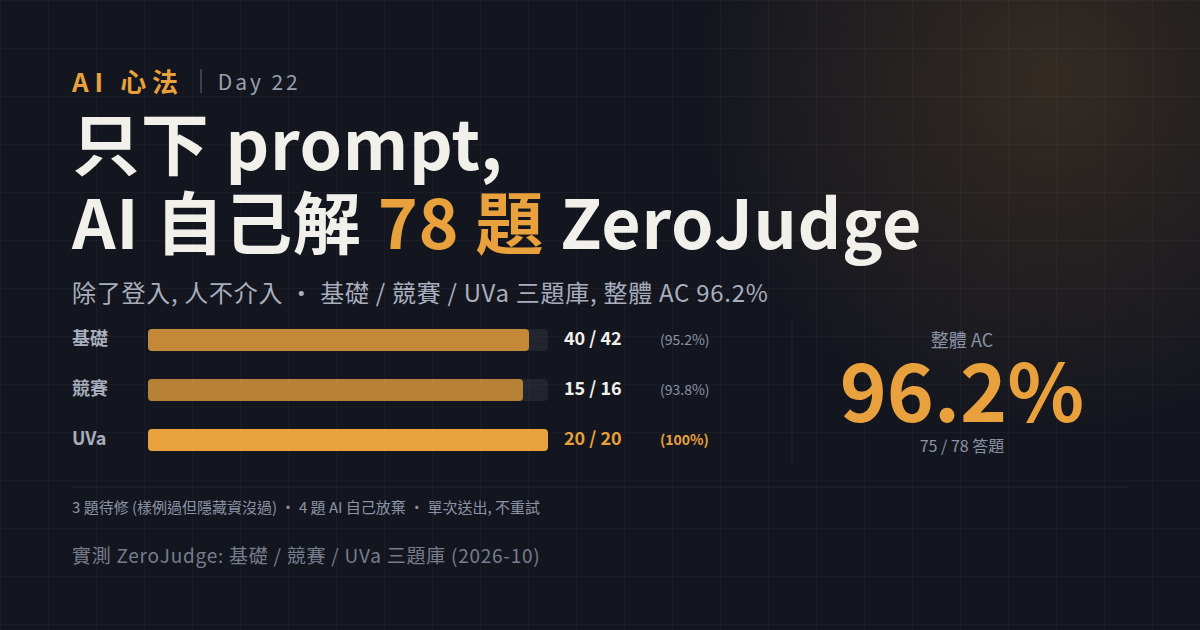
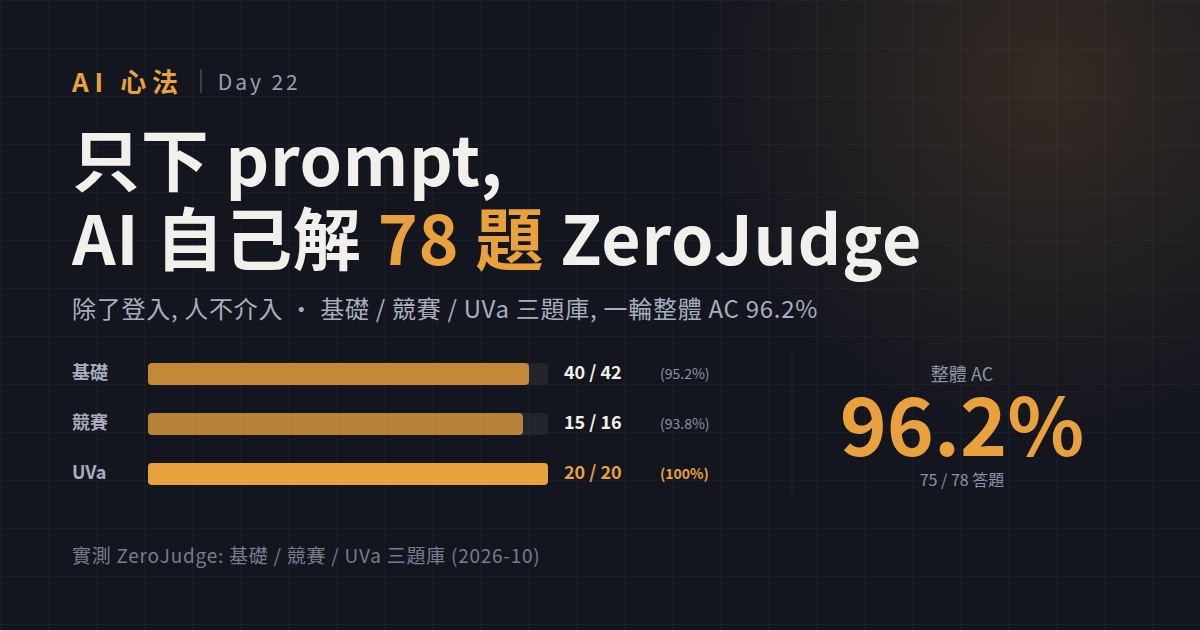
day22(cover): 強調「一輪」, 移除底部 context 條
- sub: 整體 AC 96.2% -> 一輪整體 AC 96.2% (配合 draft 說明這是單次送出的 snapshot)
- 移除底部「3 題待修 · 4 題 AI 自己放棄 · 單次送出, 不重試」, 讓視覺焦點回到 96.2% + 三題庫
- SVG 高度 210 -> 160 收合空白

diff --git a/05-notes/ironman/assets/cover-day22.html b/05-notes/ironman/assets/cover-day22.html
@@ -24,10 +24,10 @@ text{font-family:"Noto Sans CJK TC",sans-serif}
   <div class="top"><span class="mark">AI 心法</span><span class="bar"></span><span class="day">Day 22</span></div>
   <div>
     <h1>只下 prompt,<br>AI 自己解 <em>78 題</em> ZeroJudge</h1>
-    <div class="sub">除了登入, 人不介入 · 基礎 / 競賽 / UVa 三題庫, 整體 AC 96.2%</div>
+    <div class="sub">除了登入, 人不介入 · 基礎 / 競賽 / UVa 三題庫, 一輪整體 AC 96.2%</div>
   </div>
   <div class="chartwrap">
-  <svg width="1056" height="210" viewBox="0 0 1056 210">
+  <svg width="1056" height="160" viewBox="0 0 1056 160">
     <!-- 左半: 3 題庫 bars -->
     <text x="0" y="28" fill="#a8aebd" font-size="18" font-weight="700">基礎</text>
     <rect x="76" y="12" width="400" height="22" rx="4" fill="#5b617033"/>
@@ -55,9 +55,6 @@ text{font-family:"Noto Sans CJK TC",sans-serif}
     <text x="890" y="105" fill="#e8a13c" font-size="80" font-weight="900" text-anchor="middle">96.2%</text>
     <text x="890" y="135" fill="#8b93a5" font-size="16" text-anchor="middle">75 / 78 答題</text>
 
-    <!-- 底部 context 條 -->
-    <line x1="0" y1="170" x2="1056" y2="170" stroke="#5b617033" stroke-width="1"/>
-    <text x="0" y="196" fill="#8b93a5" font-size="15">3 題待修 (樣例過但隱藏資沒過)  ·  4 題 AI 自己放棄  ·  單次送出, 不重試</text>
   </svg>
   </div>
   <div class="foot">實測 ZeroJudge: 基礎 / 競賽 / UVa 三題庫 (2026-10)</div>
